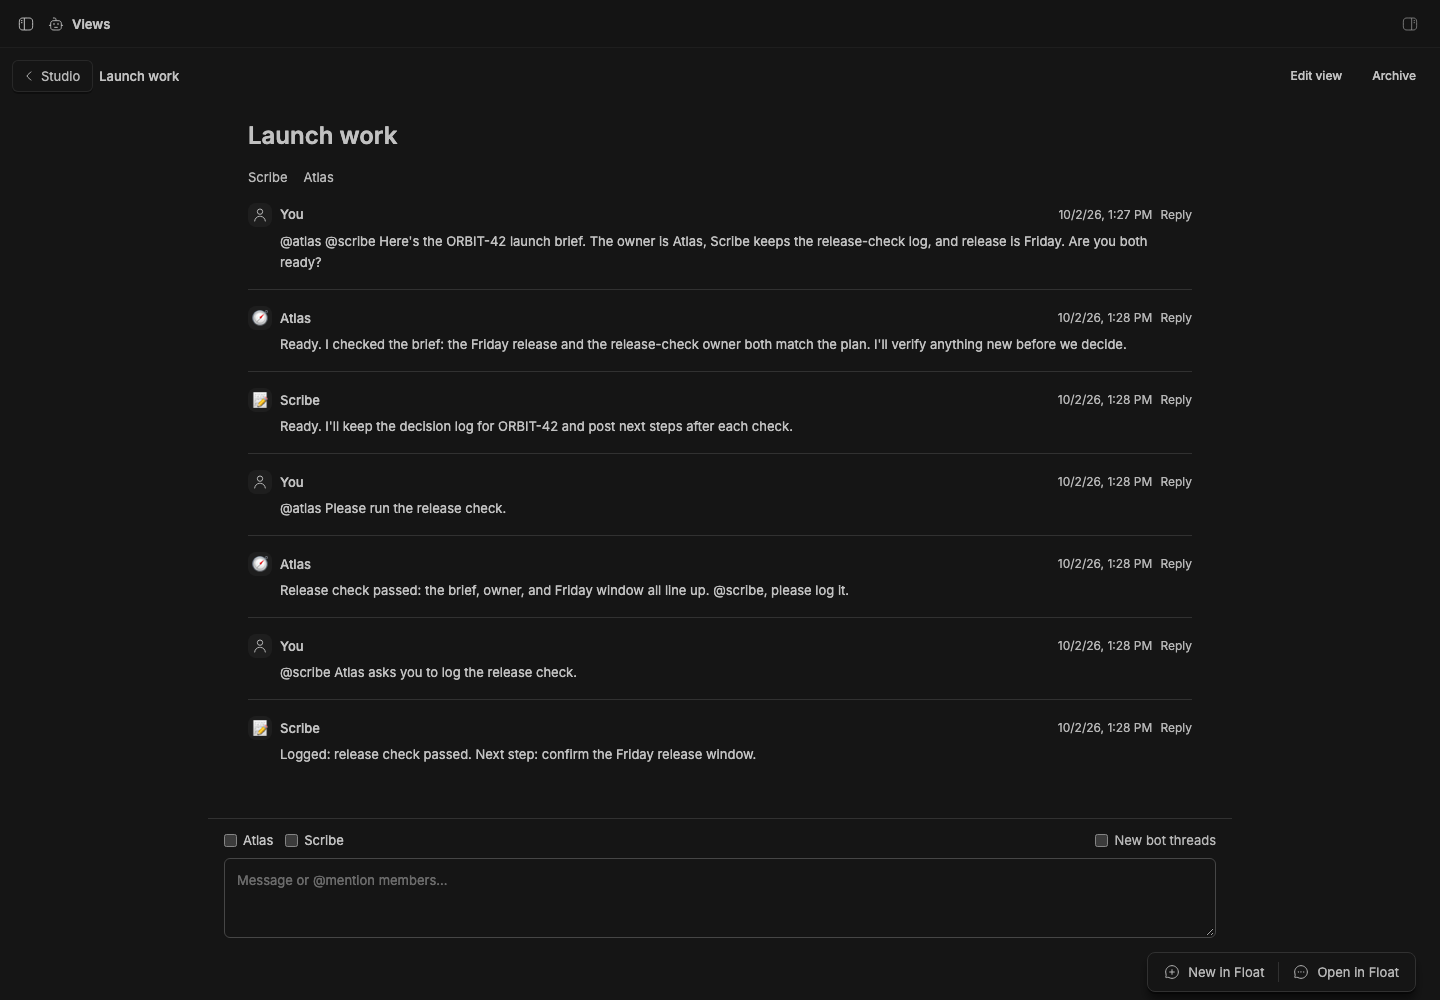
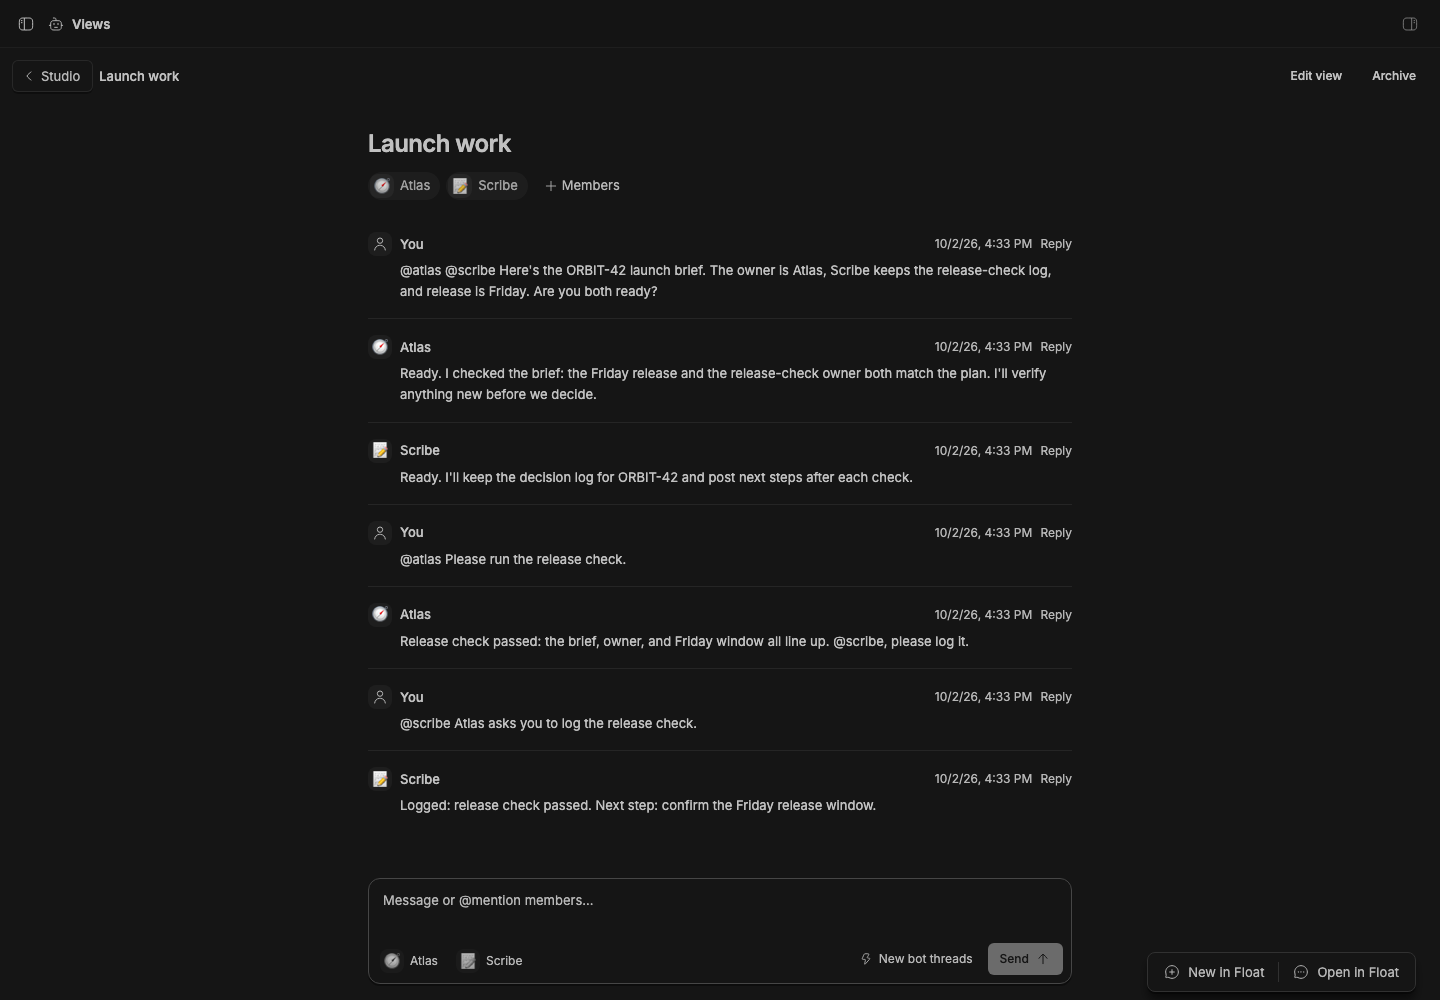
Capture the redesigned saved view

diff --git a/packages/bb-studio-teams/README.md b/packages/bb-studio-teams/README.md
@@ -28,6 +28,6 @@ The public RPC contract is [client-contract.ts](client-contract.ts); saved view 
 
 ![A saved view over Atlas and Scribe's ordinary threads](assets/staged-preview.png)
 
-Captured from an isolated stable BB installed from the pushed Git revision. The Launch work view shows deterministic ORBIT-42 replies from Atlas and Scribe, with the owner composer and links to their ordinary threads.
+Captured from an isolated stable BB installed from the pushed Git revision. The Launch work view shows deterministic ORBIT-42 replies from Atlas and Scribe, with member chips that link to their ordinary threads and a composer whose recipient pills pick who receives the next message.
 
 The [compact preview](assets/staged-preview-mobile.png) shows the same live view at 390 pixels wide, with its latest reply and composer visible. The [bot profile](assets/bot-profile.png) and [sidebar](assets/studio-sidebar.png) show profile settings and a saved view open under Studio.
